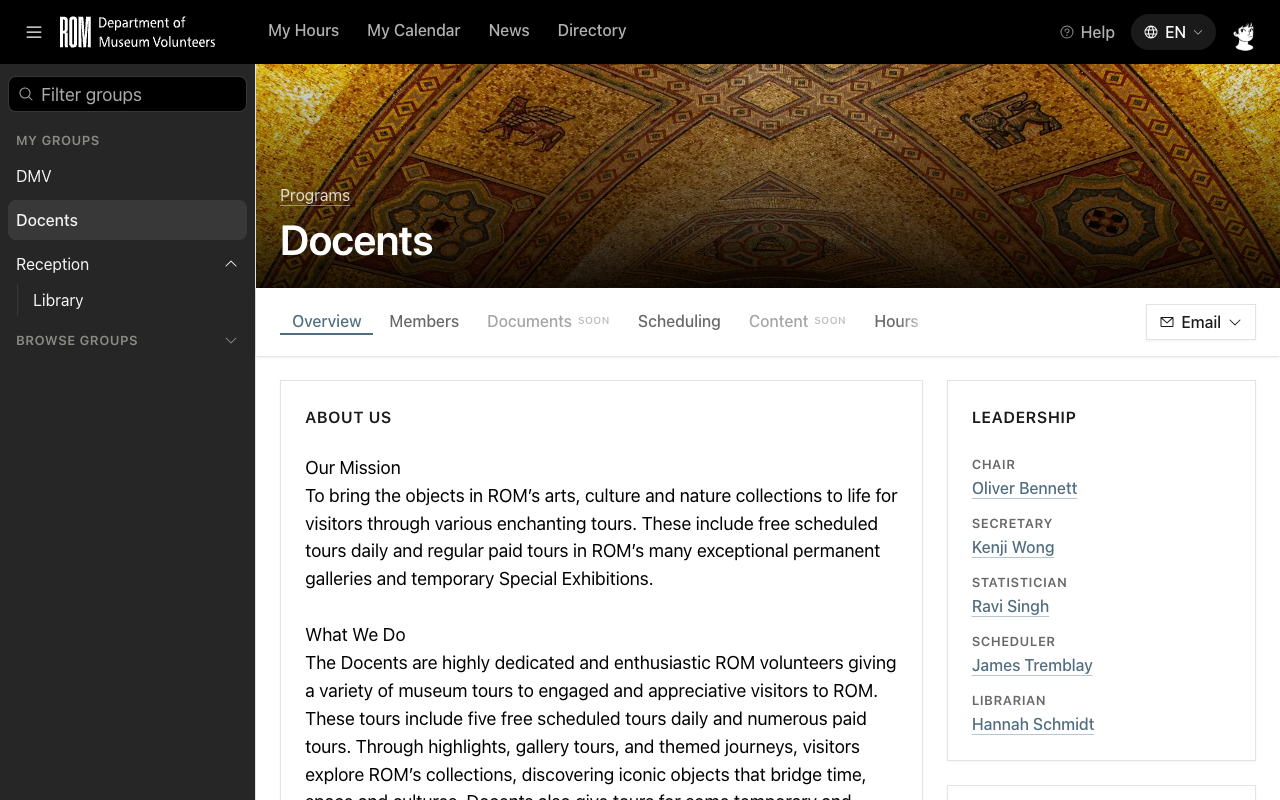
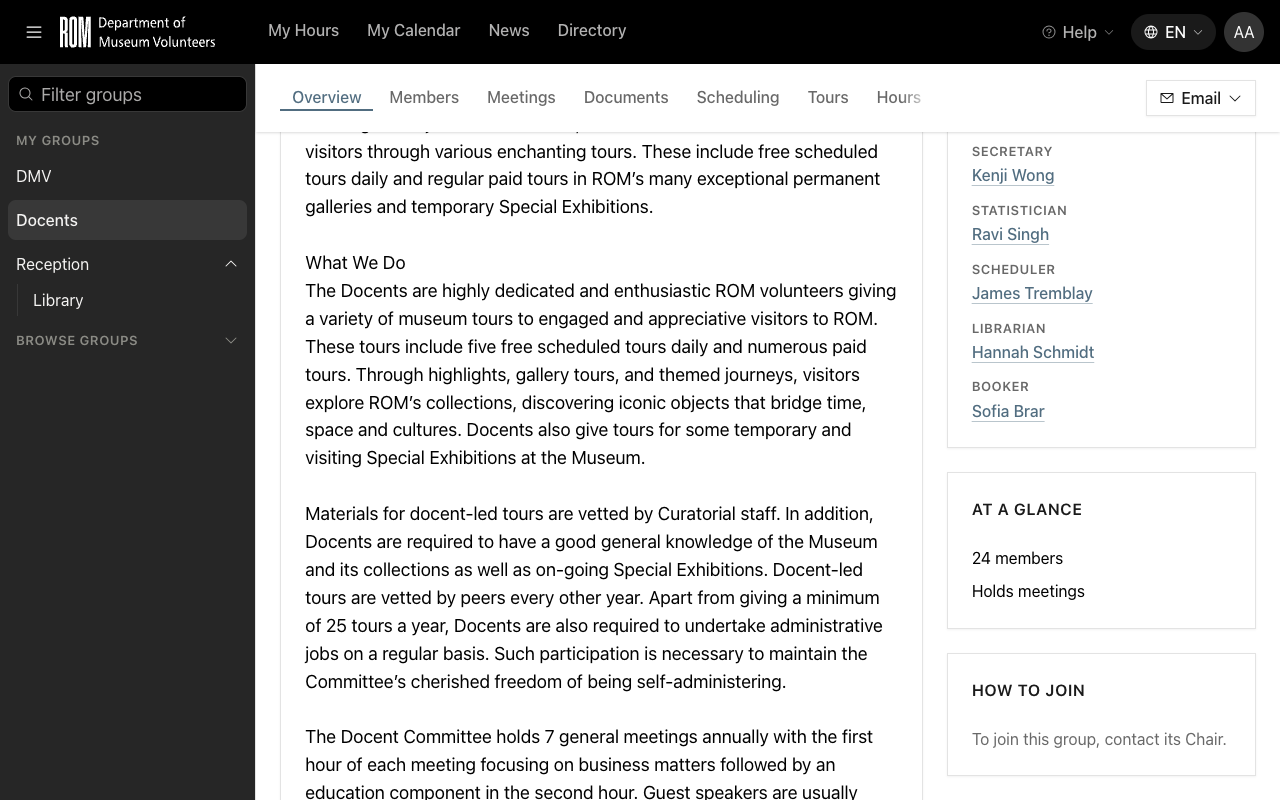
Help screenshots for Group tab visibility (#874)
Reshoot and add the help shots for the Group tab visibility change (#871).

- scheduling 01: reshoot; the list shows no past Schedules and no past heading.
- group-page-tabs 01: reshoot; a new showHowToJoinCard helper scrolls the
  How to join card into view below At a glance. Caption updated.
- group-page-tabs 06: new; a non-member sees the join notice on the Tours tab.
- edit-your-groups-about-us-and-banner 04: new; the How to join edit form.
- sign-up-for-a-shift 01 and cancel-a-sign-up 01: reshoot; both still showed
  the old Past heading on the Scheduling list.

New shots get image links and captions in the English and French articles.

Closes #874

diff --git a/resources/help/screenshot-runner/page-helpers.js b/resources/help/screenshot-runner/page-helpers.js
@@ -639,6 +639,16 @@
         return clickAndSettle(buttonLabelled(/^edit$/i, (element) => card.contains(element)));
     }
 
+    // Scroll the Overview just far enough to bring the How to join card (#867) up from below the
+    // fold, so the description, the officers, and At a glance stay in the shot above it.
+    function showHowToJoinCard() {
+        const card = document.getElementById('how-to-join');
+        if (!card) return false;
+        card.scrollIntoView({ block: 'end' });
+        window.scrollBy(0, 24);
+        return settle();
+    }
+
     // The banner picker on the Group header, for a Secretary or Chair. A reka-ui Dialog whose
     // trigger opens on a DOM click, so it comes through clickAndSettle like the other dialogs.
     function openBannerPicker() {
@@ -1018,6 +1028,7 @@
         openNewMeetingDialog,
         openAboutEditForm,
         openHowToJoinEditForm,
+        showHowToJoinCard,
         openBannerPicker,
         openEmailMenu,
         openWholeGroupComposer,

diff --git a/resources/help/fr/group-page-tabs.md b/resources/help/fr/group-page-tabs.md
@@ -8,7 +8,7 @@ Le premier onglet. Il montre la description du groupe, ses responsables et quelq
 
 La carte **Comment se joindre** se trouve sous **En bref**. Elle vous explique comment vous joindre au groupe. Sans étapes écrites, la carte vous invite à communiquer avec son ou sa Président·e. Sur le groupe DMV, elle vous renvoie à la Direction générale du DMV.
 
-![Une page de groupe sur Aperçu : la description et les responsables, avec les onglets en haut](01.png)
+![Une page de groupe sur Aperçu : la description, les responsables et la carte Comment se joindre sous En bref](01.png)
 
 ## Membres
 
@@ -20,9 +20,11 @@ La liste de membres du groupe. Elle liste chaque personne du groupe et le rôle 
 
 Les réunions du groupe, avec leurs ordres du jour et leurs procès-verbaux. Cet onglet apparaît seulement quand le groupe tient des réunions.
 
+![L'onglet Réunions sur un comité : un ensemble d'onglets différent, et aucune réunion notée encore](03.png)
+
 Les onglets Réunions et Visites sont réservés aux membres du groupe. Si vous n'êtes pas dans le groupe, vous voyez quand même ces onglets. Chacun montre seulement **Réservé aux membres de ce groupe** et un lien **Comment se joindre**. Sélectionnez le lien pour ouvrir la carte **Comment se joindre** de l'Aperçu.
 
-![L'onglet Réunions sur un comité : un ensemble d'onglets différent, et aucune réunion notée encore](03.png)
+![L'onglet Visites d'un groupe dont vous n'êtes pas membre : Réservé aux membres de ce groupe, et le lien Comment se joindre](06.png)
 
 ## Horaire
 

diff --git a/resources/help/en/group-page-tabs.md b/resources/help/en/group-page-tabs.md
@@ -8,7 +8,7 @@ The first tab. It shows the Group's description, its officers, and a few facts a
 
 The **How to join** card sits below **At a glance**. It tells you how to join the Group. If the Group has not written its steps yet, the card tells you to contact its Chair. On the DMV Group, it points you to the DMV Executive.
 
-![A Group page on Overview: the description and the officers, with the tabs across the top](01.png)
+![A Group page on Overview: the description, the officers, and the How to join card below At a glance](01.png)
 
 ## Members
 
@@ -20,9 +20,11 @@ The Group's roster. It lists everyone in the Group and the role each person hold
 
 The Group's meetings, with their agendas and minutes. This tab shows only when the Group holds meetings.
 
+![The Meetings tab on a committee: a different set of tabs, and no meetings recorded yet](03.png)
+
 Meetings and Tours are for members of the Group. If you are not in the Group, you still see these tabs. Each one shows only **For members of this group** and a **How to join** link. Select the link to open the **How to join** card on the Overview.
 
-![The Meetings tab on a committee: a different set of tabs, and no meetings recorded yet](03.png)
+![The Tours tab on a Group you are not in: For members of this group, and the How to join link](06.png)
 
 ## Scheduling
 

diff --git a/resources/help/en/edit-your-groups-about-us-and-banner.md b/resources/help/en/edit-your-groups-about-us-and-banner.md
@@ -26,6 +26,8 @@ The **How to join** card tells other Members how to join your Group. Everyone wh
 3. Type the steps to join, one per line.
 4. Select **Save**.
 
+    ![The How to join edit form: the text box, Save, and Cancel](04.png)
+
 > **Note:** Empty the box and save to clear the steps. The card then tells readers to contact your Group's Chair.
 
 ## Choose a banner
